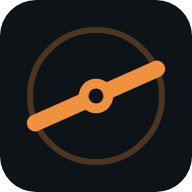
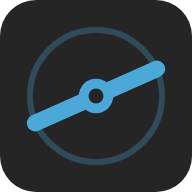
Recolour to the Zelion palette and raise the type scale
The preset viewer follows the Rotorflight Configurator's own stylesheet so
that a loaded file reads the way the same settings read in the Configurator.
The tach now draws from the same tokens, so the two look like one toolset
rather than two unrelated apps.

Colour, with the Configurator token each value comes from:

  light   bg #F9F9F9 alternativeBackground, surface #FFFFFF boxBackground,
          ink #000000 defaultText, muted #616161 mutedText,
          quiet #828885 quietHeader, line #CCCCCC superSubtleAccent,
          accent #007CC7 darkAccent, accent ink #203647 linkText,
          warn #8A5300 changedText, crit #C04020 attention

  dark    bg #252525 railBackground, surface #3A3A3A boxBackground,
          sunk #2A2A2A headerBackground, alt #414443 alternativeBackground,
          ink #FFFFFF, muted #D6D6D6, quiet #939682, line #595959,
          accent #4DA8DA darkAccent, accent ink #9FD4F2 diffText,
          warn #FFCC66 changedText, crit #F07050 attention

The Configurator has no success colour, so the one green is this project's.
Buttons carry a new accent-on token because white text on the lighter
dark-mode blue does not hold contrast.

Typography moves to the viewer's own pairing, Open Sans with JetBrains Mono,
replacing IBM Plex and Saira Condensed.

Type sizes are up roughly one step throughout - body to 15px, labels to 12px,
readout values to 19-21px, controls to 14-16px, canvas axis and peak labels
[…]

Changed region(s): [[0.125, 0.125, 0.875, 0.875]]

diff --git a/index.html b/index.html
@@ -4,8 +4,8 @@
 <meta charset="utf-8">
 <meta name="viewport" content="width=device-width,initial-scale=1,viewport-fit=cover">
 <meta name="color-scheme" content="light dark">
-<meta name="theme-color" content="#E9ECEF" media="(prefers-color-scheme: light)">
-<meta name="theme-color" content="#0E1318" media="(prefers-color-scheme: dark)">
+<meta name="theme-color" content="#F9F9F9" media="(prefers-color-scheme: light)">
+<meta name="theme-color" content="#252525" media="(prefers-color-scheme: dark)">
 <meta name="description" content="Acoustic tachometer for RC helicopter head speed, 1000-6000 rpm, read from the phone microphone.">
 <link rel="manifest" href="./manifest.webmanifest">
 <meta name="mobile-web-app-capable" content="yes">
@@ -17,53 +17,99 @@
 <style>
 html{color-scheme:light dark}
 :root{padding-top:env(safe-area-inset-top,0px);padding-bottom:env(safe-area-inset-bottom,0px)}
-body{margin:0;font:14px system-ui,sans-serif}
+body{margin:0;font:15px "Open Sans",system-ui,sans-serif}
 img{max-width:100%}
 [hidden]{display:none!important}
 </style>
 <title>Zelion Tach</title>
 <link rel="preconnect" href="https://fonts.gstatic.com" crossorigin>
-<link rel="stylesheet" href="https://fonts.googleapis.com/css2?family=IBM+Plex+Mono:wght@400;500;600&family=IBM+Plex+Sans:wght@400;500;600&family=Saira+Condensed:wght@500;600;700&display=swap">
+<link rel="stylesheet" href="https://fonts.googleapis.com/css2?family=JetBrains+Mono:wght@400;500;600&family=Open+Sans:wght@400;600;700;800&display=swap">
 <style>
 :root{
-  --bg:#E9ECEF; --surface:#FFFFFF; --surface-2:#F2F5F7; --sunk:#E2E7EB;
-  --ink:#141A21; --ink-2:#4A5764; --ink-3:#7C8895;
-  --line:#D3D9DF; --line-soft:#E4E9ED;
-  --accent:#B4541B; --accent-ink:#8E400F; --accent-soft:rgba(180,84,27,.13); --accent-faint:rgba(180,84,27,.07);
-  --good:#1C6E52; --warn:#8C6000; --crit:#A22E22;
-  --good-soft:rgba(28,110,82,.12); --warn-soft:rgba(140,96,0,.13); --crit-soft:rgba(162,46,34,.12);
-  --sans:"IBM Plex Sans",-apple-system,BlinkMacSystemFont,"Segoe UI",Roboto,sans-serif;
-  --mono:"IBM Plex Mono",ui-monospace,SFMono-Regular,Menlo,Consolas,monospace;
-  --disp:"Saira Condensed","Saira",var(--sans);
+  /* Values taken from the Rotorflight Configurator palette that the Zelion
+     preset viewer follows, so the two read as one toolset. Configurator token
+     names are given where a value is theirs. */
+  --bg:#F9F9F9;            /* alternativeBackground */
+  --surface:#FFFFFF;       /* boxBackground */
+  --surface-2:#F1F2F2;
+  --sunk:#E7E8E8;
+  --ink:#000000;           /* defaultText */
+  --ink-2:#616161;         /* mutedText */
+  --ink-3:#828885;         /* quietHeader */
+  --line:#CCCCCC;          /* superSubtleAccent */
+  --line-soft:#E4E5E5;
+  --accent:#007CC7;        /* darkAccent - the blue, at full contrast on white */
+  --accent-ink:#203647;    /* linkText */
+  --accent-on:#FFFFFF;     /* text that sits on the accent */
+  --accent-soft:rgba(0,124,199,.13);
+  --accent-faint:rgba(0,124,199,.07);
+  --good:#1F7A5C;
+  --warn:#8A5300;          /* changedText */
+  --crit:#C04020;          /* attention, dark variant */
+  --good-soft:rgba(31,122,92,.12);
+  --warn-soft:rgba(224,160,33,.20);   /* changedBorder */
+  --crit-soft:rgba(192,64,32,.13);
+  --sans:"Open Sans","Segoe UI",Roboto,Helvetica,Arial,sans-serif;
+  --mono:"JetBrains Mono","SF Mono",Menlo,Consolas,monospace;
+  --disp:"Open Sans","Segoe UI",Roboto,Helvetica,Arial,sans-serif;
   --r:10px;
 }
 @media (prefers-color-scheme:dark){
   :root:not([data-theme="light"]){
-    --bg:#0E1318; --surface:#161D24; --surface-2:#1C252D; --sunk:#111820;
-    --ink:#E7ECF1; --ink-2:#9FADBA; --ink-3:#6E7C8A;
-    --line:#2A343D; --line-soft:#212B33;
-    --accent:#F0913F; --accent-ink:#F5A961; --accent-soft:rgba(240,145,63,.16); --accent-faint:rgba(240,145,63,.08);
-    --good:#4FC08D; --warn:#E0B24A; --crit:#E8705F;
-    --good-soft:rgba(79,192,141,.14); --warn-soft:rgba(224,178,74,.14); --crit-soft:rgba(232,112,95,.14);
+    --bg:#252525;            /* railBackground */
+    --surface:#3A3A3A;       /* boxBackground */
+    --surface-2:#414443;     /* alternativeBackground */
+    --sunk:#2A2A2A;          /* headerBackground */
+    --ink:#FFFFFF;           /* defaultText */
+    --ink-2:#D6D6D6;         /* mutedText */
+    --ink-3:#939682;         /* quietHeader */
+    --line:#595959;          /* superSubtleAccent */
+    --line-soft:#4A4C4B;
+    --accent:#4DA8DA;        /* darkAccent */
+    --accent-ink:#9FD4F2;    /* diffText */
+    --accent-on:#0E2230;
+    --accent-soft:rgba(77,168,218,.18);
+    --accent-faint:rgba(77,168,218,.09);
+    --good:#7FD4A8;
+    --warn:#FFCC66;          /* changedText */
+    --crit:#F07050;          /* attention */
+    --good-soft:rgba(127,212,168,.15);
+    --warn-soft:rgba(255,204,102,.15);
+    --crit-soft:rgba(240,112,80,.15);
   }
 }
+
 :root[data-theme="dark"]{
-  --bg:#0E1318; --surface:#161D24; --surface-2:#1C252D; --sunk:#111820;
-  --ink:#E7ECF1; --ink-2:#9FADBA; --ink-3:#6E7C8A;
-  --line:#2A343D; --line-soft:#212B33;
-  --accent:#F0913F; --accent-ink:#F5A961; --accent-soft:rgba(240,145,63,.16); --accent-faint:rgba(240,145,63,.08);
-  --good:#4FC08D; --warn:#E0B24A; --crit:#E8705F;
-  --good-soft:rgba(79,192,141,.14); --warn-soft:rgba(224,178,74,.14); --crit-soft:rgba(232,112,95,.14);
+  --bg:#252525;      /* railBackground */
+  --surface:#3A3A3A;     /* boxBackground */
+  --surface-2:#414443;   /* alternativeBackground */
+  --sunk:#2A2A2A;      /* headerBackground */
+  --ink:#FFFFFF;       /* defaultText */
+  --ink-2:#D6D6D6;     /* mutedText */
+  --ink-3:#939682;     /* quietHeader */
+  --line:#595959;      /* superSubtleAccent */
+  --line-soft:#4A4C4B;
+  --accent:#4DA8DA;    /* darkAccent */
+  --accent-ink:#9FD4F2;  /* diffText */
+  --accent-on:#0E2230;
+  --accent-soft:rgba(77,168,218,.18);
+  --accent-faint:rgba(77,168,218,.09);
+  --good:#7FD4A8;
+  --warn:#FFCC66;      /* changedText */
+  --crit:#F07050;      /* attention */
+  --good-soft:rgba(127,212,168,.15);
+  --warn-soft:rgba(255,204,102,.15);
+  --crit-soft:rgba(240,112,80,.15);
 }
 
 *{box-sizing:border-box}
-body{background:var(--bg);color:var(--ink);font-family:var(--sans);line-height:1.5;-webkit-font-smoothing:antialiased}
+body{background:var(--bg);color:var(--ink);font-family:var(--sans);font-size:15px;line-height:1.55;-webkit-font-smoothing:antialiased}
 .wrap{max-width:1180px;margin:0 auto;padding-inline:16px;padding-block:20px 40px;display:flex;flex-direction:column;gap:14px}
 h1,h2,h3{margin:0;text-wrap:balance}
 p{margin:0}
 .mono{font-family:var(--mono);font-variant-numeric:tabular-nums}
-.tiny{font-size:11px}
-.lab{font-family:var(--mono);font-size:10.5px;letter-spacing:.11em;text-transform:uppercase;color:var(--ink-3)}
+.tiny{font-size:12.5px}
+.lab{font-family:var(--mono);font-size:12px;letter-spacing:.09em;text-transform:uppercase;color:var(--ink-3)}
 
 /* ---------- header ---------- */
 .top{display:flex;flex-wrap:wrap;gap:14px;align-items:center;justify-content:space-between}
@@ -72,12 +118,12 @@ p{margin:0}
 .rotor .hub{transform-origin:50% 50%;animation:spin 1.4s linear infinite}
 @keyframes spin{to{transform:rotate(360deg)}}
 @media (prefers-reduced-motion:reduce){.rotor .hub{animation:none}}
-.brand h1{font-family:var(--disp);font-size:26px;font-weight:700;letter-spacing:.005em;line-height:1.05}
-.brand .sub{font-family:var(--mono);font-size:11px;color:var(--ink-3);letter-spacing:.02em}
+.brand h1{font-family:var(--disp);font-size:30px;font-weight:800;letter-spacing:.005em;line-height:1.05}
+.brand .sub{font-family:var(--mono);font-size:12.5px;color:var(--ink-3);letter-spacing:.02em}
 .srcline{display:flex;align-items:center;gap:10px}
-.pill{font-family:var(--mono);font-size:11px;letter-spacing:.05em;text-transform:uppercase;padding:4px 9px;border-radius:999px;background:var(--accent-soft);color:var(--accent-ink);white-space:nowrap}
+.pill{font-family:var(--mono);font-size:12px;letter-spacing:.05em;text-transform:uppercase;padding:4px 9px;border-radius:999px;background:var(--accent-soft);color:var(--accent-ink);white-space:nowrap}
 .pill.live{background:var(--good-soft);color:var(--good)}
-.meter{width:96px;height:8px;border-radius:999px;background:var(--sunk);overflow:hidden;position:relative}
+.meter{width:104px;height:9px;border-radius:999px;background:var(--sunk);overflow:hidden;position:relative}
 .meter i{display:block;height:100%;width:0%;background:var(--good);transition:width .12s linear}
 .meter i.hot{background:var(--crit)}
 .meter::after{content:"";position:absolute;inset-block:0;left:88%;width:1px;background:var(--line)}
@@ -98,14 +144,14 @@ p{margin:0}
 /* ---------- readout ---------- */
 .readout{background:var(--surface);border-color:var(--line)}
 .rowlab{display:flex;justify-content:space-between;align-items:center;gap:8px}
-.lock{font-family:var(--mono);font-size:10.5px;letter-spacing:.07em;text-transform:uppercase;padding:3px 8px;border-radius:5px;background:var(--good-soft);color:var(--good);white-space:nowrap}
+.lock{font-family:var(--mono);font-size:12px;letter-spacing:.06em;text-transform:uppercase;padding:4px 9px;border-radius:5px;background:var(--good-soft);color:var(--good);white-space:nowrap}
 .lock[data-s="weak"]{background:var(--warn-soft);color:var(--warn)}
 .lock[data-s="none"]{background:var(--crit-soft);color:var(--crit)}
 .big{display:flex;align-items:baseline;gap:8px;margin-top:4px;min-width:0}
-.big .n{font-family:var(--disp);font-weight:700;font-size:clamp(58px,15vw,98px);line-height:.9;letter-spacing:-.015em;font-variant-numeric:tabular-nums;color:var(--ink);white-space:nowrap}
+.big .n{font-family:var(--disp);font-weight:700;font-size:clamp(52px,13.5vw,88px);line-height:.95;letter-spacing:-.025em;font-variant-numeric:tabular-nums;color:var(--ink);white-space:nowrap}
 .big.stale .n{color:var(--ink-3)}
 .big.oor .n{color:var(--warn)}
-.big .unit{font-family:var(--mono);font-size:14px;color:var(--ink-3);letter-spacing:.06em}
+.big .unit{font-family:var(--mono);font-size:16px;color:var(--ink-3);letter-spacing:.06em}
 
 /* band gauge */
 .gauge{margin-top:14px}
@@ -113,60 +159,60 @@ p{margin:0}
 .track .fill{position:absolute;inset-block:0;left:0;width:0%;background:var(--accent-faint);border-right:2px solid var(--accent);transition:width .18s ease-out}
 .track .tick{position:absolute;inset-block:0;width:1px;background:var(--line)}
 .scale{display:flex;justify-content:space-between;margin-top:5px}
-.scale span{font-family:var(--mono);font-size:10px;color:var(--ink-3)}
-.alt{margin-top:10px;font-family:var(--mono);font-size:11.5px;line-height:1.45;color:var(--ink-2);background:var(--surface-2);border-left:2px solid var(--warn);padding:7px 9px;border-radius:0 6px 6px 0}
+.scale span{font-family:var(--mono);font-size:12px;color:var(--ink-3)}
+.alt{margin-top:10px;font-family:var(--mono);font-size:13px;line-height:1.5;color:var(--ink-2);background:var(--surface-2);border-left:2px solid var(--warn);padding:7px 9px;border-radius:0 6px 6px 0}
 .alt b{color:var(--ink);font-weight:600}
 
 .facts{display:grid;grid-template-columns:1fr 1fr;gap:1px;margin:14px 0 0;background:var(--line-soft);border:1px solid var(--line-soft);border-radius:8px;overflow:hidden}
-.facts>div{background:var(--surface);padding:8px 10px;display:flex;flex-direction:column;gap:2px}
-.facts dd{margin:0;font-family:var(--mono);font-size:15px;font-weight:500;font-variant-numeric:tabular-nums;color:var(--ink)}
-.facts dd small{font-size:11px;color:var(--ink-3);font-weight:400}
+.facts>div{background:var(--surface);padding:10px 12px;display:flex;flex-direction:column;gap:2px}
+.facts dd{margin:0;font-family:var(--mono);font-size:19px;font-weight:600;font-variant-numeric:tabular-nums;color:var(--ink)}
+.facts dd small{font-size:13px;color:var(--ink-3);font-weight:400}
 
 /* ---------- verify ---------- */
 .verify{display:grid;gap:9px}
 .vhead{display:flex;justify-content:space-between;align-items:center;gap:8px}
-.verdict{font-family:var(--mono);font-size:10.5px;letter-spacing:.07em;text-transform:uppercase;padding:3px 8px;border-radius:5px;background:var(--good-soft);color:var(--good)}
+.verdict{font-family:var(--mono);font-size:12px;letter-spacing:.06em;text-transform:uppercase;padding:4px 9px;border-radius:5px;background:var(--good-soft);color:var(--good)}
 .verdict[data-s="bad"]{background:var(--crit-soft);color:var(--crit)}
 .vgrid{display:grid;grid-template-columns:repeat(3,1fr);gap:10px}
 .vgrid div{display:flex;flex-direction:column;gap:1px}
-.vgrid b{font-family:var(--mono);font-size:16px;font-weight:600;font-variant-numeric:tabular-nums}
-.vnote{font-size:12px;color:var(--ink-2);line-height:1.45}
+.vgrid b{font-family:var(--mono);font-size:21px;font-weight:600;font-variant-numeric:tabular-nums}
+.vnote{font-size:13.5px;color:var(--ink-2);line-height:1.55}
 
 /* ---------- controls ---------- */
 .controls{display:grid;gap:12px}
 .field{display:grid;gap:5px}
 .seg{display:flex;background:var(--sunk);border-radius:7px;padding:3px;gap:3px}
-.seg button{flex:1;appearance:none;border:0;background:transparent;font-family:var(--mono);font-size:12.5px;font-variant-numeric:tabular-nums;color:var(--ink-2);padding:6px 0;border-radius:5px;cursor:pointer}
+.seg button{flex:1;appearance:none;border:0;background:transparent;font-family:var(--mono);font-size:14px;font-variant-numeric:tabular-nums;color:var(--ink-2);padding:9px 0;border-radius:5px;cursor:pointer}
 .seg button[aria-pressed="true"]{background:var(--surface);color:var(--ink);box-shadow:0 1px 2px rgba(0,0,0,.09)}
 .two{display:grid;grid-template-columns:1fr 1fr;gap:10px}
-input[type=number],select{width:100%;font-family:var(--mono);font-size:13px;padding:7px 8px;border:1px solid var(--line);border-radius:7px;background:var(--surface-2);color:var(--ink)}
+input[type=number],select{width:100%;font-family:var(--mono);font-size:15px;padding:9px 10px;border:1px solid var(--line);border-radius:7px;background:var(--surface-2);color:var(--ink)}
 input[type=range]{width:100%;accent-color:var(--accent)}
-.btn{appearance:none;border:1px solid var(--accent);background:var(--accent);color:#fff;font-family:var(--sans);font-weight:600;font-size:14px;padding:10px 14px;border-radius:8px;cursor:pointer;width:100%}
+.btn{appearance:none;border:1px solid var(--accent);background:var(--accent);color:var(--accent-on);font-family:var(--sans);font-weight:600;font-size:16px;padding:12px 16px;border-radius:8px;cursor:pointer;width:100%}
 .btn:hover{filter:brightness(1.07)}
 .btn.ghost{background:transparent;color:var(--ink-2);border-color:var(--line)}
 .btn.ghost:hover{background:var(--surface-2);filter:none}
 :focus-visible{outline:2px solid var(--accent);outline-offset:2px}
-.err{font-size:12.5px;color:var(--crit);background:var(--crit-soft);border-radius:7px;padding:9px 11px;line-height:1.5}
+.err{font-size:13.5px;color:var(--crit);background:var(--crit-soft);border-radius:7px;padding:9px 11px;line-height:1.5}
 .err a,.hint a{color:inherit;font-weight:600}
-.err code{font-family:var(--mono);font-size:11px;word-break:break-all;display:inline-block}
-.hint{font-size:12px;color:var(--ink-2);line-height:1.5;background:var(--surface-2);border:1px solid var(--line);border-radius:7px;padding:9px 11px}
+.err code{font-family:var(--mono);font-size:12.5px;word-break:break-all;display:inline-block}
+.hint{font-size:13.5px;color:var(--ink-2);line-height:1.5;background:var(--surface-2);border:1px solid var(--line);border-radius:7px;padding:9px 11px}
 .hint b{color:var(--ink)}
 
 /* ---------- charts ---------- */
 figure.chart{margin:0}
 figcaption{display:flex;justify-content:space-between;align-items:baseline;gap:10px;margin-bottom:9px;flex-wrap:wrap}
-figcaption strong{font-size:13.5px;font-weight:600}
+figcaption strong{font-size:15.5px;font-weight:700}
 .cwrap{position:relative;width:100%}
 .cwrap canvas{display:block;width:100%;max-width:100%;touch-action:pan-y}
-.tip{position:absolute;pointer-events:none;opacity:0;transform:translate(-50%,-115%);background:var(--ink);color:var(--bg);font-family:var(--mono);font-size:11px;line-height:1.45;padding:5px 8px;border-radius:6px;white-space:nowrap;transition:opacity .09s;z-index:3}
+.tip{position:absolute;pointer-events:none;opacity:0;transform:translate(-50%,-115%);background:var(--ink);color:var(--bg);font-family:var(--mono);font-size:12.5px;line-height:1.45;padding:5px 8px;border-radius:6px;white-space:nowrap;transition:opacity .09s;z-index:3}
 .tip.on{opacity:1}
 
 /* ---------- notes ---------- */
 .notes{border-top:1px solid var(--line);padding-top:16px;display:grid;gap:12px}
 @media(min-width:760px){.notes{grid-template-columns:repeat(3,1fr);gap:22px}}
-.notes h3{font-family:var(--mono);font-size:10.5px;letter-spacing:.11em;text-transform:uppercase;color:var(--ink-3);margin-bottom:5px}
-.notes p{font-size:12.5px;color:var(--ink-2);line-height:1.55}
-.notes code{font-family:var(--mono);font-size:11.5px;background:var(--surface-2);padding:1px 4px;border-radius:4px;color:var(--ink)}
+.notes h3{font-family:var(--mono);font-size:11.5px;letter-spacing:.09em;text-transform:uppercase;color:var(--ink-3);margin-bottom:5px}
+.notes p{font-size:14px;color:var(--ink-2);line-height:1.6}
+.notes code{font-family:var(--mono);font-size:12.5px;background:var(--surface-2);padding:1px 4px;border-radius:4px;color:var(--ink)}
 .notes .caution{border-left:2px solid var(--crit);padding-left:10px}
 .notes .caution h3{color:var(--crit)}
 </style>
@@ -657,8 +703,8 @@ function fit(cv, h){
 var specHover = null;
 function drawSpectrum(){
   var cv = $("specCv"); if(!cv.parentNode.clientWidth) return;
-  var P = fit(cv, wide() ? 236 : 196), g = P.g, W = P.w, H = P.h;
-  var ml = 6, mr = 6, mt = 8, mb = 22;
+  var P = fit(cv, wide() ? 248 : 210), g = P.g, W = P.w, H = P.h;
+  var ml = 6, mr = 6, mt = 10, mb = 26;
   var pw = W - ml - mr, ph = H - mt - mb;
   var ink3 = css("--ink-3"), line = css("--line-soft"), accent = css("--accent"), surface = css("--surface");
 
@@ -681,12 +727,12 @@ function drawSpectrum(){
   /* grid + hz axis */
   var step = xMax > 360 ? 100 : xMax > 180 ? 50 : 25;
   g.strokeStyle = line; g.lineWidth = 1;
-  g.fillStyle = ink3; g.font = '10px ' + (css("--mono") || "monospace"); g.textAlign = "center";
-  g.textAlign = "right"; g.fillText("Hz", W - mr, H - 7); g.textAlign = "center";
+  g.fillStyle = ink3; g.font = '12px ' + (css("--mono") || "monospace"); g.textAlign = "center";
+  g.textAlign = "right"; g.fillText("Hz", W - mr, H - 8); g.textAlign = "center";
   for(var f = 0; f <= xMax; f += step){
     var x = Math.round(X(f)) + 0.5;
     g.beginPath(); g.moveTo(x, mt); g.lineTo(x, mt + ph); g.stroke();
-    g.fillText(String(f), x, H - 7);
+    g.fillText(String(f), x, H - 8);
   }
 
   /* spectrum fill + line */
@@ -713,14 +759,14 @@ function drawSpectrum(){
     g.setLineDash([3,3]); g.strokeStyle = accent; g.lineWidth = 1.5;
     g.beginPath(); g.moveTo(px, mt); g.lineTo(px, mt + ph); g.stroke(); g.setLineDash([]);
     var lbl = S.freq.toFixed(1) + " Hz · " + fmt(S.rpm) + " rpm";
-    g.font = '600 11px ' + (css("--mono") || "monospace");
+    g.font = '600 12.5px ' + (css("--mono") || "monospace");
     var tw = g.measureText(lbl).width, bw = tw + 12;
     var bx = px + 9;                                   /* sit beside the marker, never on it */
     if(bx + bw > W - mr) bx = px - 9 - bw;
     bx = Math.max(ml, bx);
     g.fillStyle = accent; g.beginPath();
-    (g.roundRect ? g.roundRect(bx, mt, bw, 18, 4) : g.rect(bx, mt, bw, 18)); g.fill();
-    g.fillStyle = surface; g.textAlign = "left"; g.fillText(lbl, bx + 6, mt + 13);
+    (g.roundRect ? g.roundRect(bx, mt, bw, 21, 4) : g.rect(bx, mt, bw, 21)); g.fill();
+    g.fillStyle = surface; g.textAlign = "left"; g.fillText(lbl, bx + 6, mt + 15);
     g.beginPath(); g.arc(px, Y(S.spec[detectBin()]), 3.5, 0, 6.2832);
     g.fillStyle = accent; g.fill(); g.strokeStyle = surface; g.lineWidth = 2; g.stroke();
   }
@@ -742,11 +788,11 @@ function detectBin(){ return Math.max(1, Math.min((S.spec?S.spec.length-1:1), Ma
 var trendHover = null;
 function drawTrend(){
   var cv = $("trendCv"); if(!cv.parentNode.clientWidth) return;
-  var P = fit(cv, wide() ? 268 : 168), g = P.g, W = P.w, H = P.h;
-  var ml = 46, mr = 10, mt = 10, mb = 20;
+  var P = fit(cv, wide() ? 280 : 184), g = P.g, W = P.w, H = P.h;
+  var ml = 56, mr = 10, mt = 12, mb = 24;
   var pw = W - ml - mr, ph = H - mt - mb;
   var ink3 = css("--ink-3"), line = css("--line-soft"), accent = css("--accent"), surface = css("--surface");
-  g.font = '10px ' + (css("--mono") || "monospace");
+  g.font = '12px ' + (css("--mono") || "monospace");
 
   var h = S.hist;
   if(h.length < 2){
@@ -769,11 +815,11 @@ function drawTrend(){
   for(var r = 0; r < rows.length; r++){
     var y = Math.round(Y(rows[r])) + 0.5;
     g.beginPath(); g.moveTo(ml, y); g.lineTo(ml + pw, y); g.stroke();
-    g.fillText(fmt(rows[r]), ml - 7, y + 3.5);
+    g.fillText(fmt(rows[r]), ml - 8, y + 4);
   }
   g.textAlign = "center";
-  g.fillText("−60 s", ml + 14, H - 6);
-  g.fillText("now", ml + pw - 10, H - 6);
+  g.fillText("−60 s", ml + 18, H - 7);
+  g.fillText("now", ml + pw - 12, H - 7);
 
   /* area + line */
   g.beginPath(); g.moveTo(X(h[0].t), mt + ph);

diff --git a/sw.js b/sw.js
@@ -1,6 +1,6 @@
 /* Zelion Tach - offline shell.
    Network-first for the page so updates land; cache-first for everything else. */
-const CACHE = "zeliontach-v4";
+const CACHE = "zeliontach-v5";
 const SHELL = ["./", "./index.html", "./manifest.webmanifest", "./icon.svg", "./icon-192.png", "./icon-512.png"];
 
 self.addEventListener("install", (e) => {
